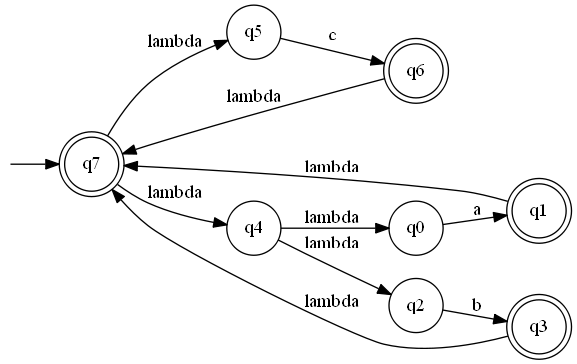
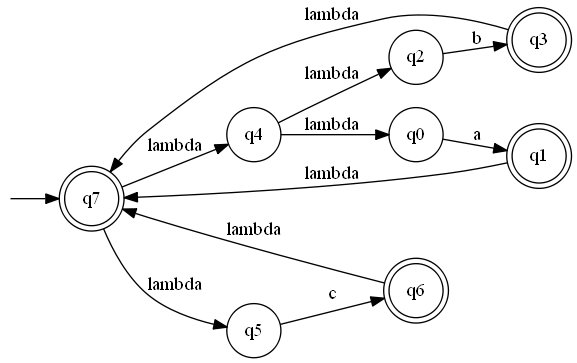
Create DrawAFN

diff --git a/package/Automata.py b/package/Automata.py
@@ -15,6 +15,7 @@ def make_link_AFNe(G, node1, node2, token):
     (G[node1])[node2] = token
     return G
 
+
 def make_link_AFN(G, node1, node2, token):
     if node1 not in G:
         G[node1] = {}
@@ -23,6 +24,7 @@ def make_link_AFN(G, node1, node2, token):
     else:
         (G[node1])[node2] = [token]
     return G
+
 
 def make_link_tree(G, node1, node2, token):
     if node1 not in G:
@@ -37,7 +39,33 @@ def make_state(nodesAutomata, aceptation, name):
     return nodesAutomata
 
 
-def drawAutomata(G, startState, nodesAutomata, nombre_archivo):
+def drawAFN(G, startState, nodesAutomata, nombre_archivo):
+    g2 = graph.Digraph(format='png')
+    g2.attr("graph", _attributes={"rankdir": "LR"})
+    g2.node("start", _attributes={"shape": "point",
+                                  "color": "white", "fontcolor": "white"})
+    g2.edge("start", "q" + str(startState))
+    for node1 in G:
+        if nodesAutomata[node1].aceptation == True:
+            g2.node(node1, _attributes={
+                    "shape": "doublecircle", "color": "black", "fontcolor": "black"})
+        else:
+            g2.node(str(node1))
+            g2.node(node1, _attributes={"shape": "circle"})
+
+        for node2 in G[node1]:
+            if nodesAutomata[node2].aceptation == True:
+                g2.node(node2, _attributes={
+                        "shape": "doublecircle", "color": "black", "fontcolor": "black"})
+            else:
+                g2.node(str(node2))
+                g2.node(node2, _attributes={"shape": "circle"})
+            for _label_ in G[node1][node2]:
+                g2.edge(str(node1), str(node2), label=_label_)
+    filename = g2.render(filename='../graphs/automatas/' + nombre_archivo)
+
+
+def drawAFNe(G, startState, nodesAutomata, nombre_archivo):
     g2 = graph.Digraph(format='png')
     g2.attr("graph", _attributes={"rankdir": "LR"})
     g2.node("start", _attributes={"shape": "point",
@@ -45,22 +73,21 @@ def drawAutomata(G, startState, nodesAutomata, nombre_archivo):
     g2.edge("start", "q" + str(startState))
 
     for node1 in G:
-        for node2 in G[node1]:
-            g2.node(str(node1))
-            g2.node(node1, _attributes={"shape": "circle"})
-            g2.node(str(node2))
-            g2.node(node2, _attributes={"shape": "circle"})
-            g2.edge(str(node1), str(node2), label=G[node1][node2])
-
-    for node1 in G:
         if nodesAutomata[node1].aceptation == True:
             g2.node(node1, _attributes={
                     "shape": "doublecircle", "color": "black", "fontcolor": "black"})
+        else:
+            g2.node(str(node1))
+            g2.node(node1, _attributes={"shape": "circle"})
+
         for node2 in G[node1]:
             if nodesAutomata[node2].aceptation == True:
                 g2.node(node2, _attributes={
                         "shape": "doublecircle", "color": "black", "fontcolor": "black"})
-
+            else:
+                g2.node(str(node2))
+                g2.node(node2, _attributes={"shape": "circle"})
+            g2.edge(str(node1), str(node2), label=G[node1][node2])
     filename = g2.render(filename='../graphs/automatas/' + nombre_archivo)
 
 
@@ -111,11 +138,12 @@ def DFS_AFN(AFN_e, startNode, nodesAutomata, symbol, AFN):
                 word = word + AFN_e[u][neighbor]
             if nodesAutomata[neighbor].aceptation:
                 if word == symbol:
-                    make_link_AFN(AFN,startNode,neighbor,symbol)
+                    make_link_AFN(AFN, startNode, neighbor, symbol)
             if color[neighbor] == "black":
                 word = ""
         color[u] = 'black'
     return AFN
+
 
 def make_AFN(AFN_e, startState, nodesAutomata, alphabet):
     AFN = {}
@@ -123,7 +151,7 @@ def make_AFN(AFN_e, startState, nodesAutomata, alphabet):
         for symbol in alphabet:
             AFN = DFS_AFN(AFN_e, node, nodesAutomata, symbol, AFN)
     print(AFN)
-    #drawAutomata(AFN, startState, nodesAutomata, "AFNfinal")
+    drawAFN(AFN, startState, nodesAutomata, "AFNfinal")
     return AFN
 
 
@@ -291,7 +319,7 @@ def makeAutomata():
             AFN_e, Tree, nodesAutomata, state, startState = select_transition(AFN_e, Tree, i, nodesAutomata, state,
                                                                               startState)
         i += 1
-    drawAutomata(AFN_e, startState, nodesAutomata, "automata_final")
+    drawAFNe(AFN_e, startState, nodesAutomata, "automata_final")
     AFN = make_AFN(AFN_e, startState, nodesAutomata, alphabet)
 
 
